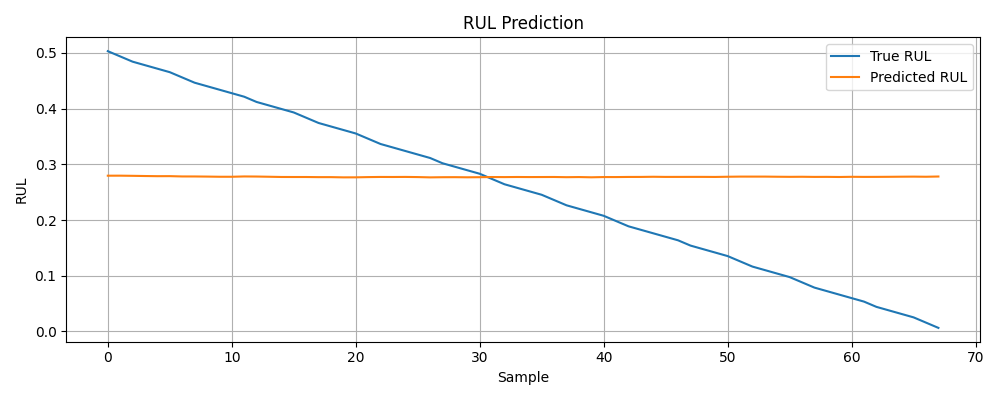
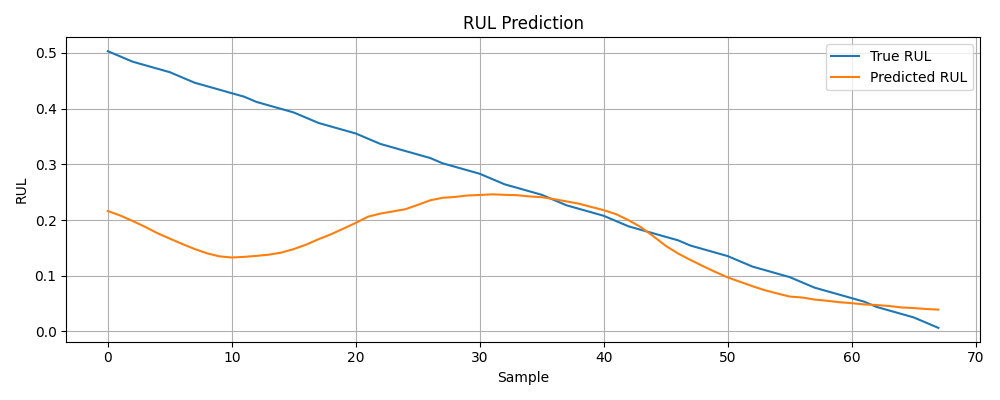
Update Codes

diff --git a/utils.py b/utils.py
@@ -86,6 +86,60 @@ def create_sequences(X, y, seq_len):
     
     return np.array(sequences, dtype=np.float32), np.array(targets, dtype=np.float32)
 
+def load_and_proc_data_FC(file_list,
+                       features=['Utot (V)', 'I (A)'],
+                       targets = ['Utot (V)'],
+                       SEQ_LEN=100, 
+                       BATCH_SIZE=32):
+    
+    X_seq = []
+    y_seq = []
+
+    for file in file_list:
+        df = pd.read_csv(file)
+        
+        X = df[features].values
+        y = df[targets[0]].values
+
+        X = np.nan_to_num(X, nan=0.0, posinf=0.0, neginf=0.0)
+
+        scaler_data = StandardScaler()
+        X = scaler_data.fit_transform(X)
+        y = y / 2
+
+        X_seq_temp, y_seq_temp = create_sequences(X, y, SEQ_LEN)
+        X_seq.extend(X_seq_temp)
+        y_seq.extend(y_seq_temp)
+        ind = np.arange(len(X_seq))
+
+    np.random.shuffle(ind)
+    X_seq = [X_seq[i] for i in ind]
+    y_seq = [y_seq[i] for i in ind]
+
+    train_size = int(0.8 * len(X_seq))
+    val_size = int(0.1 * len(X_seq))
+
+    X_train, y_train = X_seq[:train_size], y_seq[:train_size]
+    X_val, y_val = X_seq[train_size:train_size+val_size], y_seq[train_size:train_size+val_size]
+    X_test, y_test = X_seq[train_size+val_size:], y_seq[train_size+val_size:]
+
+    X_train = torch.tensor(np.array(X_seq[:train_size]), dtype=torch.float32)
+    y_train = torch.tensor(np.array(y_seq[:train_size]), dtype=torch.float32)
+    X_val = torch.tensor(np.array(X_seq[train_size:train_size+val_size]), dtype=torch.float32)
+    y_val = torch.tensor(np.array(y_seq[train_size:train_size+val_size]), dtype=torch.float32)
+    X_test = torch.tensor(np.array(X_seq[train_size+val_size:]), dtype=torch.float32)
+    y_test = torch.tensor(np.array(y_seq[train_size+val_size:]), dtype=torch.float32)
+
+    train_dataset = TensorDataset(X_train, y_train)
+    val_dataset = TensorDataset(X_val, y_val)
+    test_dataset = TensorDataset(X_test, y_test)
+
+    train_loader = DataLoader(train_dataset, batch_size=BATCH_SIZE, shuffle=False)
+    val_loader = DataLoader(val_dataset, batch_size=BATCH_SIZE)
+    test_loader = DataLoader(test_dataset, batch_size=BATCH_SIZE)
+
+    return X, y, train_loader, val_loader, test_loader, scaler_data
+
 def load_and_proc_data(file_list,
                        features=['pack_voltage (V)', 'charge_current (A)', 'max_temperature (℃)', 'min_temperature (℃)', 'soc', 'available_capacity (Ah)'],
                        targets = ['available_capacity (Ah)'],
@@ -188,9 +242,9 @@ def evaluate_model(model, test_loader, model_save_file, output_save_file, plot_m
     all_preds = np.concatenate(all_preds, axis=0)
     all_targets = np.concatenate(all_targets, axis=0)
 
-    if all_preds.ndim == 3 and all_preds.shape[-1] == 1:
-        all_preds = all_preds.squeeze(-1)
-        #all_targets = all_targets.squeeze(-1)
+    # Ensure predictions and targets are compatible
+    all_preds = all_preds.squeeze()
+    all_targets = all_targets[:, -1]  # Use the last value of the target sequence
 
     # Compute error metrics
     rmse = np.sqrt(mean_squared_error(all_targets, all_preds))
@@ -202,7 +256,7 @@ def evaluate_model(model, test_loader, model_save_file, output_save_file, plot_m
     mape = np.mean(np.abs((all_targets[non_zero_mask] - all_preds[non_zero_mask]) / all_targets[non_zero_mask])) * 100
 
     # Compute Pearson Correlation Coefficient (PCC)
-    pcc = np.array([pearsonr(all_targets[:, i], all_preds[:, i])[0] for i in range(all_targets.shape[1])])
+    pcc = np.array([pearsonr(all_targets, all_preds)[0]])
 
     # Compute Mean Directional Accuracy (MDA)
     direction_actual = np.sign(np.diff(all_targets))
@@ -226,7 +280,7 @@ def evaluate_model(model, test_loader, model_save_file, output_save_file, plot_m
         f.write(f"Test MDA: {mda}\n")
 
     if plot_fig:
-        plt.figure(figsize=(10, 5))
+        plt.figure(figsize=(16, 10))  # Increased figure size
         start = 0
         for i in range(1):
             length = pred_out[i].shape[0]

diff --git a/FNO_FC.py b/FNO_FC.py
@@ -2,7 +2,7 @@ import torch
 import torch.nn as nn
 import torch.nn.functional as F
 import numpy as np
-from fno_battery.utils import extract_VIT_capacity, plot_loss, plot_pred
+from fno_battery.utils import load_and_proc_data_FC, evaluate_model
 import os
 
 class SpectralConv1d(nn.Module):
@@ -104,7 +104,7 @@ class RULPredictor:
         self.model = FNO1d(
             modes=self.modes,
             width=self.width,
-            input_dim=4,  # Voltage, Current, Temperature, Capacity
+            input_dim=2,  # Adjusted to match the number of features in the dataset
             output_dim=1  # Predicted RUL
         ).to(self.device)
         
@@ -188,59 +188,39 @@ def create_data_loaders(x_train, y_train, x_val, y_val, batch_size=32):
     return train_loader, val_loader
 
 if __name__ == "__main__":
-    # Set random seed for reproducibility
-    torch.manual_seed(42)
-    np.random.seed(42)
-    
-    # Hyperparameters
-    SEQ_LEN = 50
-    BATCH_SIZE = 32
-    EPOCHS = 100
-    MODES = 16
-    WIDTH = 64
-    LEARNING_RATE = 1e-3
-    
-    # Create save directory
-    save_dir = "results/FNO"
-    os.makedirs(save_dir, exist_ok=True)
-    
-    # Load and preprocess data
-    x_datasets = ["data/NASA/B0005.csv", "data/NASA/B0006.csv", "data/NASA/B0007.csv"]
-    y_datasets = ["data/NASA/B0005.csv", "data/NASA/B0006.csv", "data/NASA/B0007.csv"]
-    
-    X, y, scalers = extract_VIT_capacity(
-        x_datasets=x_datasets,
-        y_datasets=y_datasets,
-        seq_len=SEQ_LEN,
-        extract_all=True
+    # Define file paths and parameters
+    file_list = ["C:/Users/serha/PycharmProjects/Temp/fno_battery/data/data/ieee1/FC1_test_filtered.csv"]  # Example file paths
+    seq_len = 50
+    batch_size = 32
+    epochs = 20
+    save_dir = "models"
+    model_save_file = os.path.join(save_dir, 'best_model.pth')
+    output_save_file = "outputs/test_results.txt"
+
+    # Load and process data
+    X, y, train_loader, val_loader, test_loader, scaler_data = load_and_proc_data_FC(
+        file_list=file_list,
+        SEQ_LEN=seq_len,
+        BATCH_SIZE=batch_size
+    )
+
+    # Initialize RULPredictor
+    rul_predictor = RULPredictor(seq_len=seq_len)
+
+    # Train the model
+    train_losses, val_losses = rul_predictor.train(
+        train_loader=train_loader,
+        val_loader=val_loader,
+        epochs=epochs,
+        save_dir=save_dir
+    )
+
+    # Evaluate the model
+    evaluate_model(
+        model=rul_predictor.model,
+        test_loader=test_loader,
+        model_save_file=model_save_file,
+        output_save_file=output_save_file,
+        device=rul_predictor.device
     )
     
-    # Split data
-    train_size = int(0.8 * len(X))
-    x_train, x_val = X[:train_size], X[train_size:]
-    y_train, y_val = y[:train_size], y[train_size:]
-    
-    # Create data loaders
-    train_loader, val_loader = create_data_loaders(
-        x_train, y_train, x_val, y_val, BATCH_SIZE
-    )
-    
-    # Initialize and train model
-    predictor = RULPredictor(
-        seq_len=SEQ_LEN,
-        modes=MODES,
-        width=WIDTH,
-        learning_rate=LEARNING_RATE
-    )
-    
-    train_losses, val_losses = predictor.train(
-        train_loader, val_loader, EPOCHS, save_dir
-    )
-    
-    # Plot training results
-    history = type('History', (), {'history': {'loss': train_losses, 'val_loss': val_losses}})()
-    plot_loss(history, "results", "FNO")
-    
-    # Make predictions on validation set
-    predictions = predictor.predict(val_loader)
-    plot_pred(predictions, y_val, "results", "FNO", "validation_predictions") 
